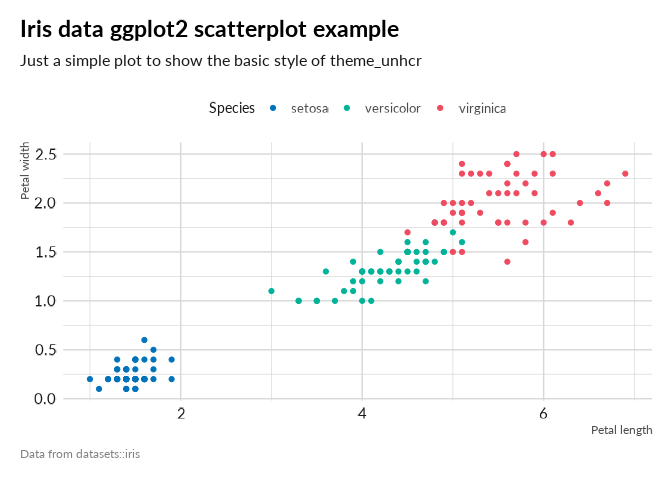
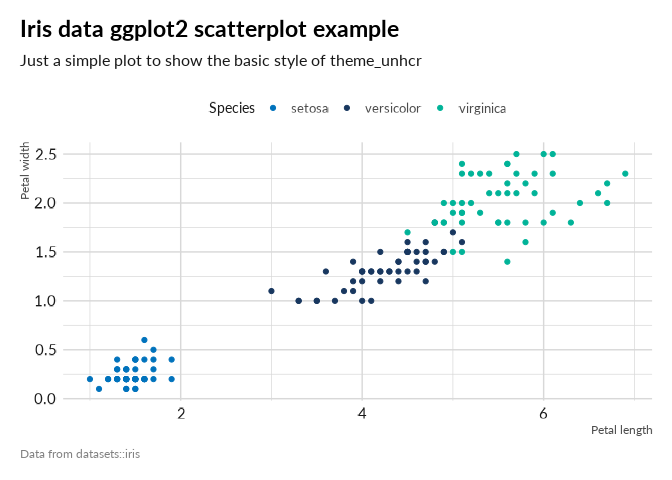
Update README

diff --git a/README.md b/README.md
@@ -85,7 +85,7 @@ ggplot(datasets::iris, aes(x = Petal.Length, y = Petal.Width)) +
 ``` r
 ggplot(datasets::iris, aes(x = Petal.Length, y = Petal.Width)) +
   geom_point(aes(color = Species)) +
-  scale_color_unhcr_d(palette = "pal_main_c") +
+  scale_color_unhcr_d(palette = "pal_main_qual") +
   labs(x = "Petal length", y="Petal width",
       title = "Iris data ggplot2 scatterplot example",
       subtitle = "Just a simple plot to show the basic style of theme_unhcr",
